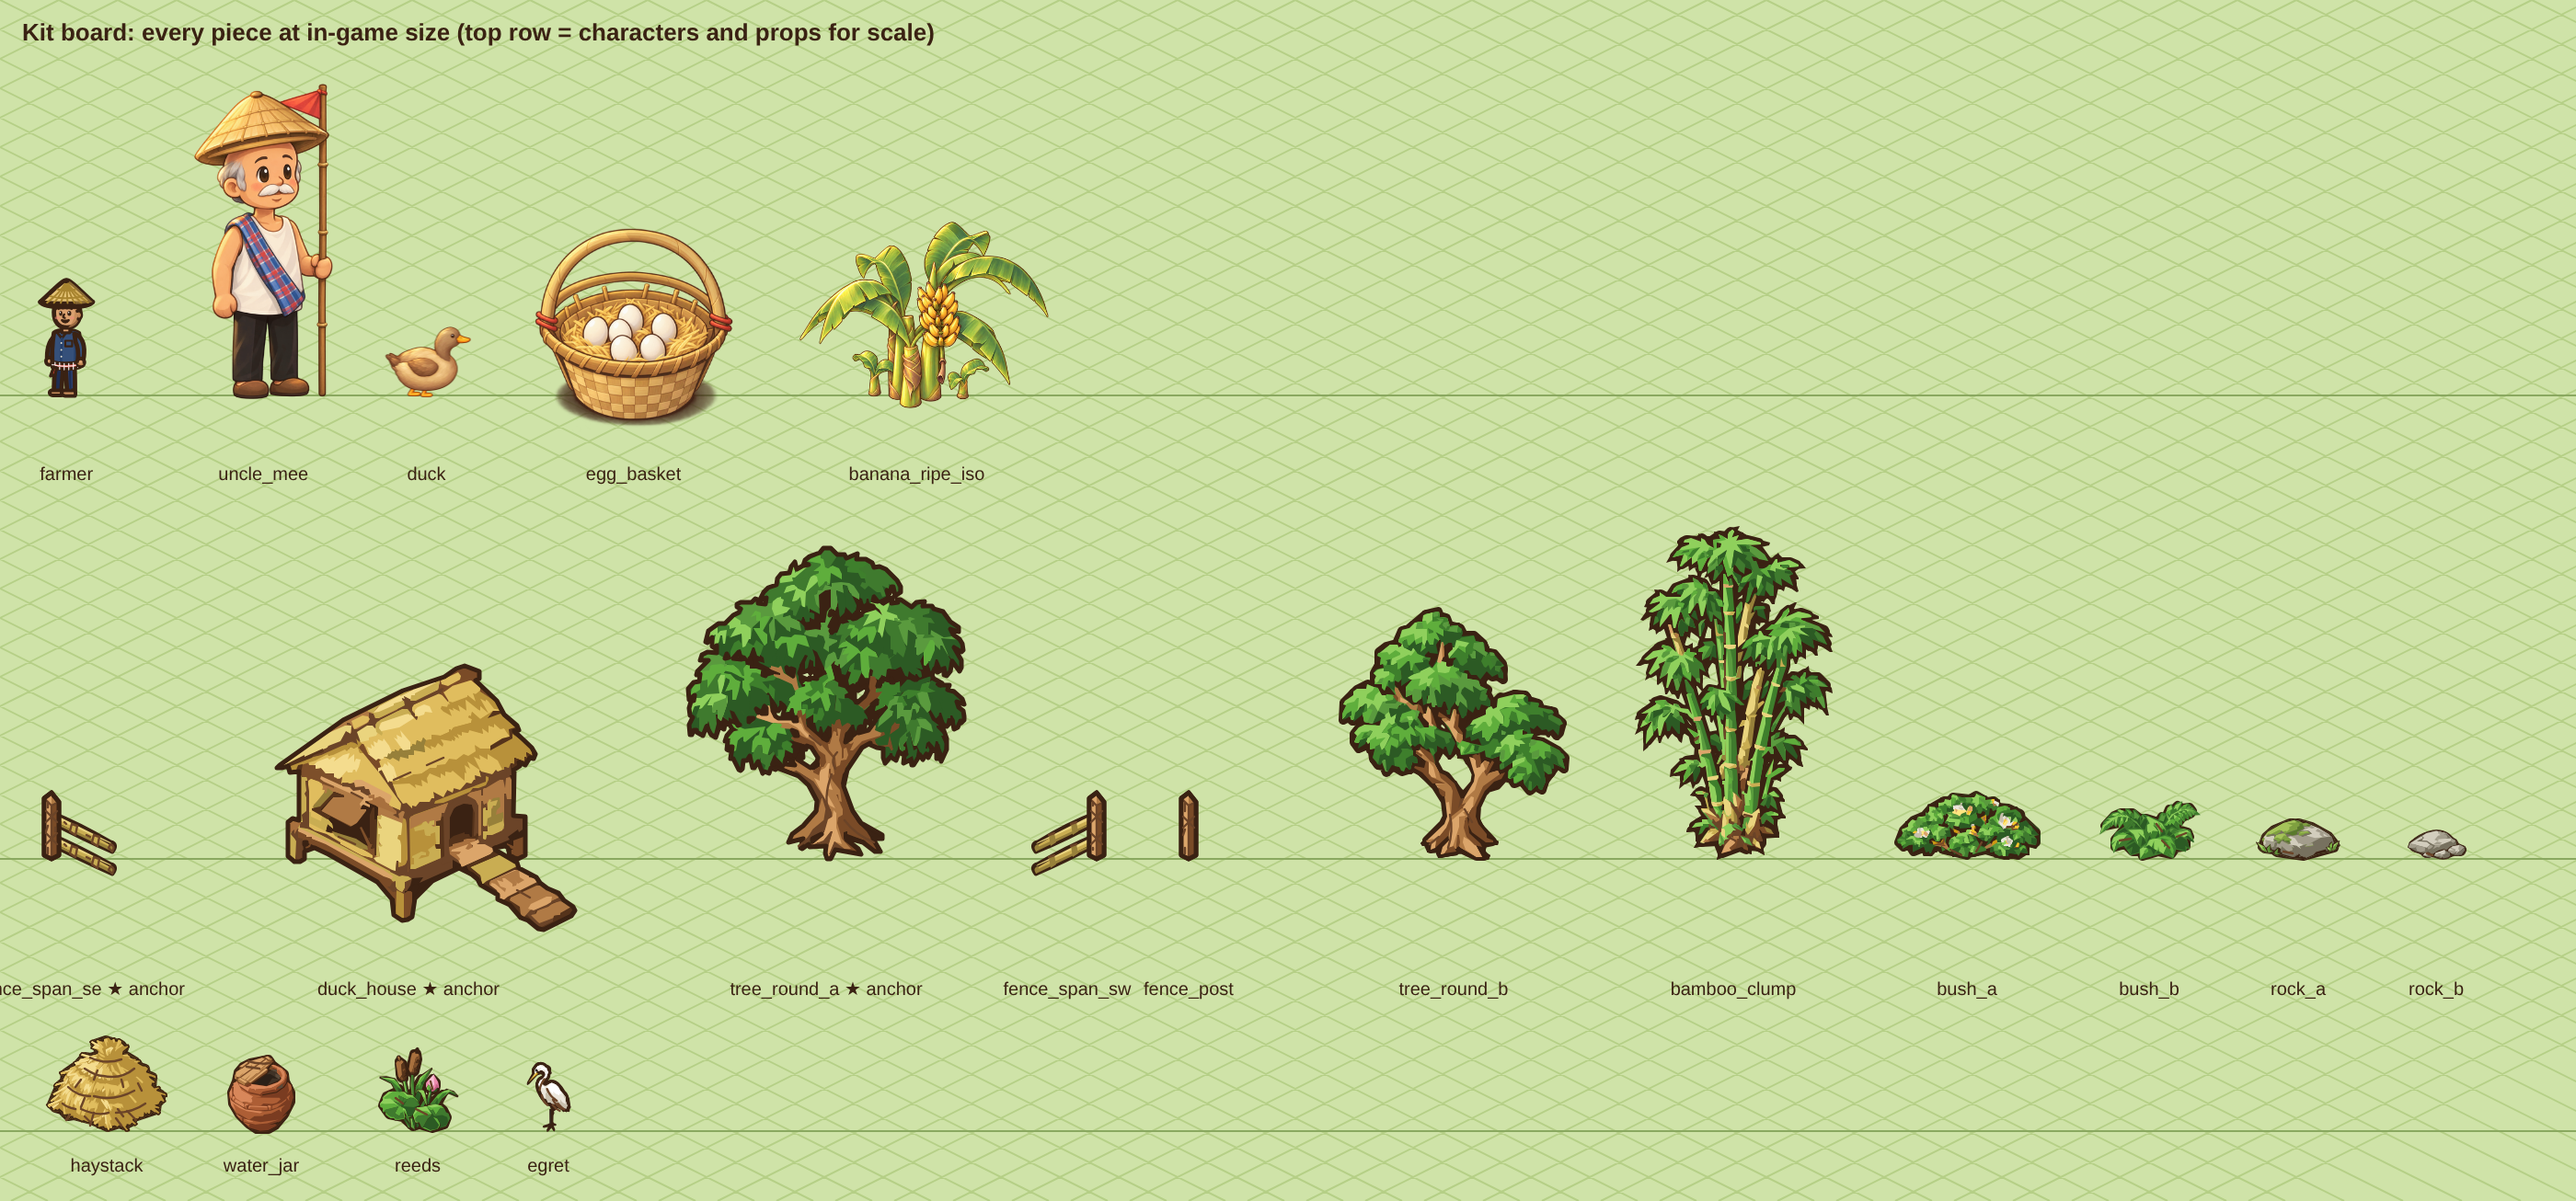
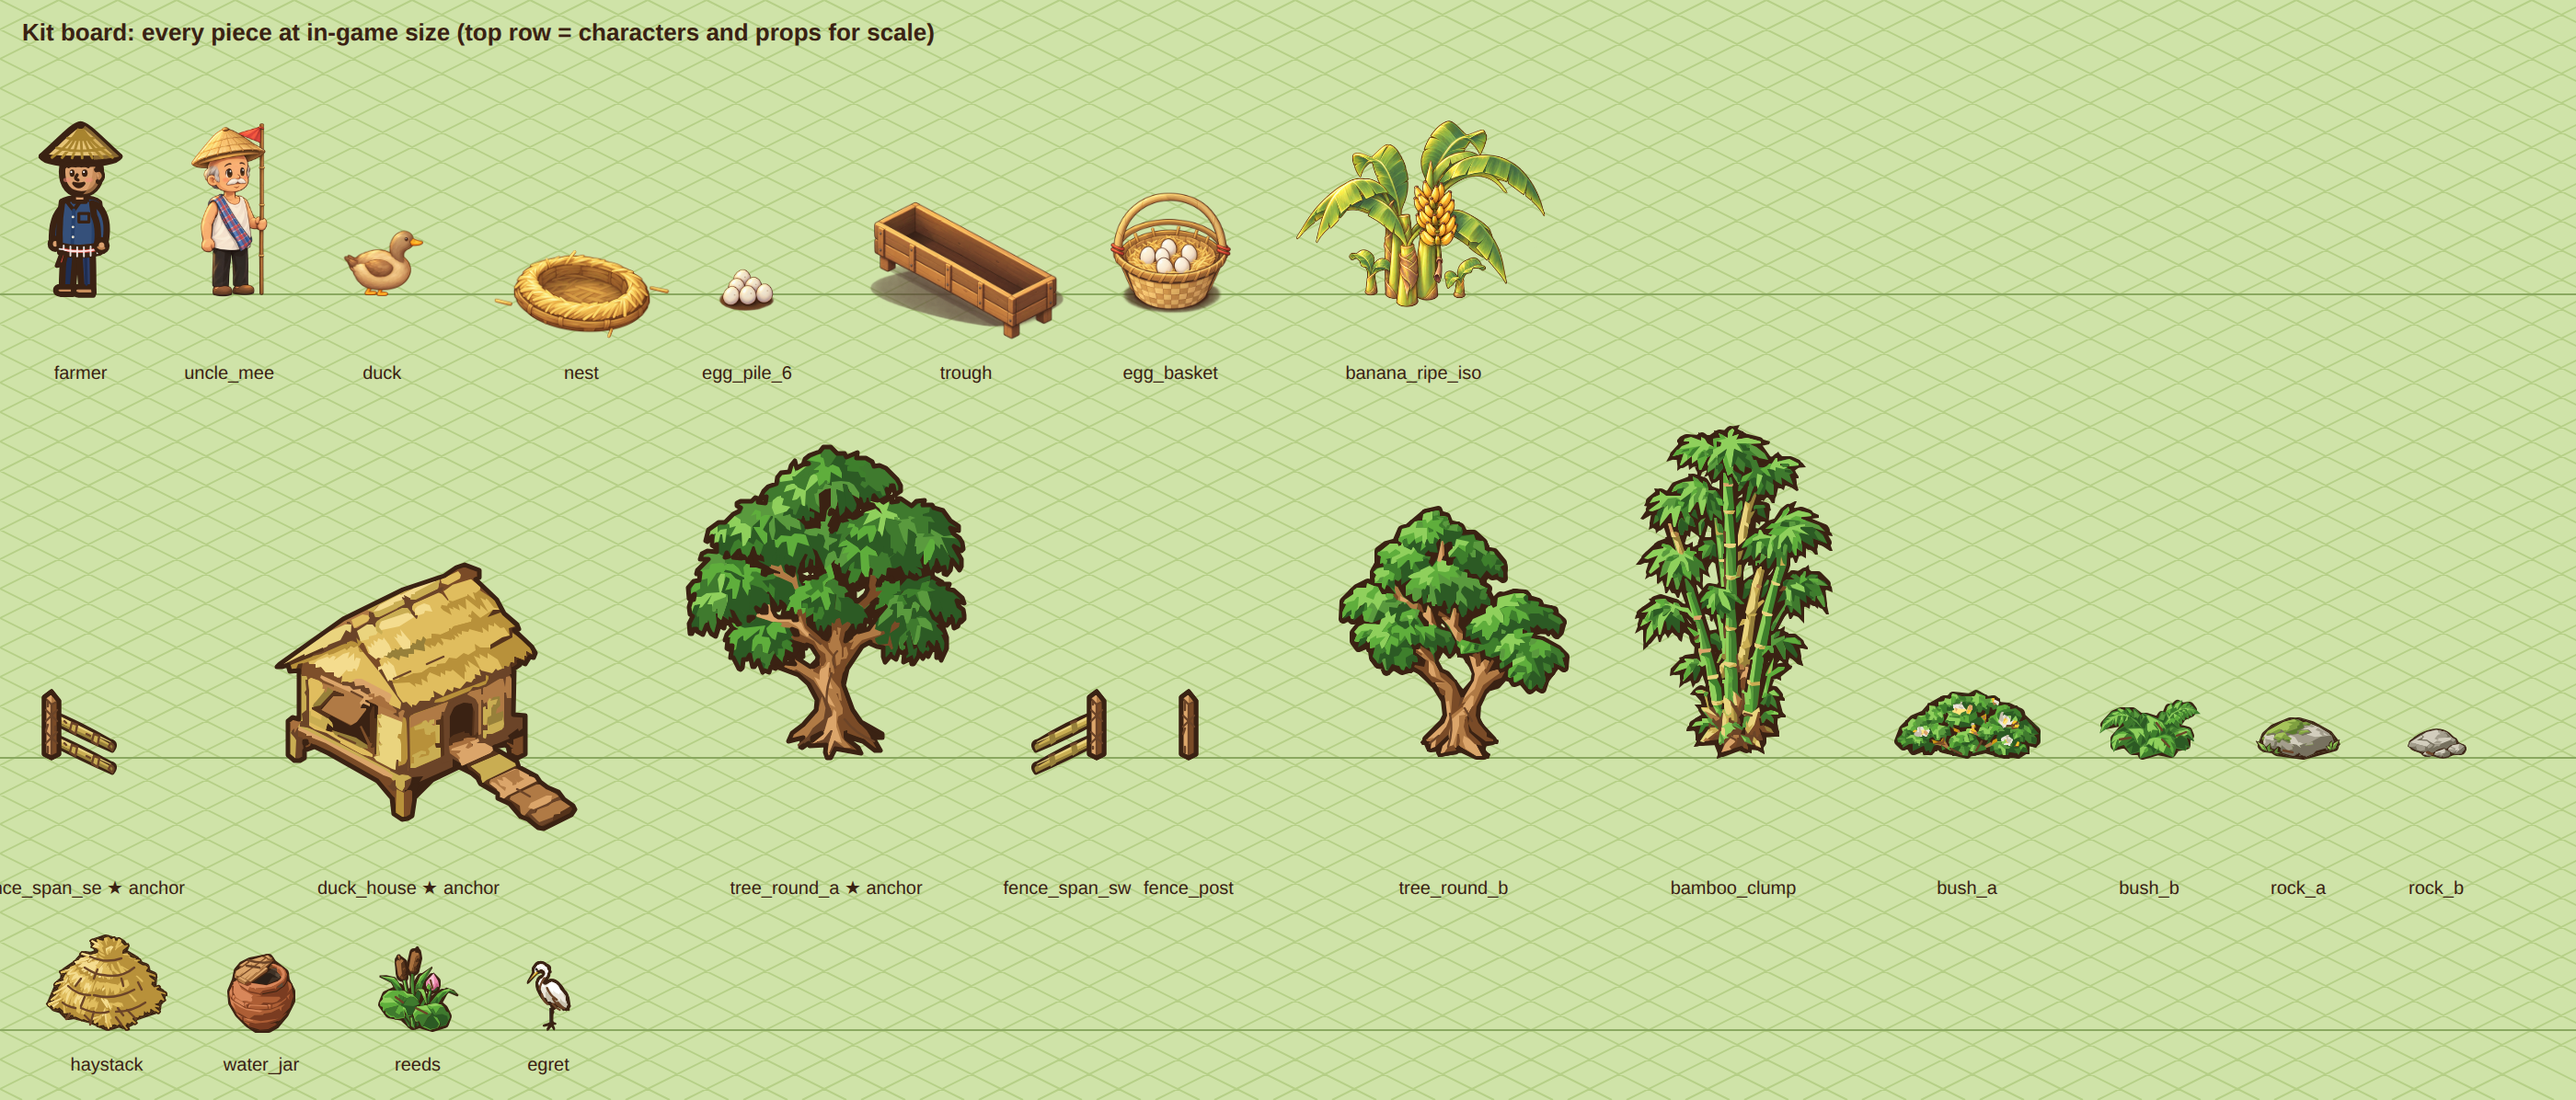
Duck pen kit review: approve 11 pieces, return ground and bamboo; one size chart for characters and props
- Approved: fence_span_sw, fence_post, tree_round_b, bush_a, bush_b,
  reeds, rock_a, rock_b, haystack, water_jar, egret. Together with the
  3 locked anchors, that makes 14 of 16 pieces approved.
- needs_changes with review notes: ground.pen (too speckled, plain
  floor) and bamboo_clump (palm/maple-shaped leaves).
- A finished flat-v3 file now takes precedence over an earlier painted
  PNG.
- SIZE_CHART / gameScale (js/art/assets.js):
  - farmer and Uncle Mee 96 px tall, duck 38 px, egg basket 56 px;
  - nest 100 px wide (egg piles share its scale), trough 110 px wide.
  Applied on the farm and in the pen, and recorded in
  paint_style.size_chart and the style contract. The kit board shows
  the characters and props at chart size. Uncle Mee's bubble moves down.
- The pen props (duck, Uncle Mee, nest, trough, basket, 10 egg piles,
  5 bananas) are queued for a style-v3 restyle (restyle_v3 blocks).

Claude-Session: https://claude.ai/code/session_01SuEzVnLzSy81bsDqDqTwQG

Changed region(s): [[0.0, 0.0, 1.0, 1.0]]

diff --git a/js/ui/render.js b/js/ui/render.js
@@ -81,14 +81,15 @@ function renderPen() {
   let s = '', labels = '';
   const items = [];                                   // [ground y, svg]: props and ducks, drawn back to front
   // nest with eggs
-  const nestArt = Assets.has('prop.nest') ? Assets.image('prop.nest', ...NEST) : `<g transform="translate(${NEST[0] - 300} ${NEST[1] - 312})">${ell(300, 312, 62, 20, '#d9b25a', 0, 2.6)}${line('M246 306l14 6M262 318l16 -4M290 322l14 -6M318 320l12 4M338 312l12 -6M252 316l-6 4M350 316l6 4', '#a8842f', 1.6)}</g>`;
+  const nk = gameScale('prop.nest');                  // the size chart scales the nest and its egg piles together
+  const nestArt = Assets.has('prop.nest') ? scaled(...NEST, nk, Assets.image('prop.nest', ...NEST)) : `<g transform="translate(${NEST[0] - 300} ${NEST[1] - 312})">${ell(300, 312, 62, 20, '#d9b25a', 0, 2.6)}${line('M246 306l14 6M262 318l16 -4M290 322l14 -6M318 320l12 4M338 312l12 -6M252 316l-6 4M350 316l6 4', '#a8842f', 1.6)}</g>`;
   s += `<g data-act="egg" class="hot"><title>รังไข่ · Nest</title>${nestArt}`;
   if (Assets.has('prop.egg_pile_1')) {
     const [nx, ny] = NEST_PILE;
     NEST_BACK.slice(0, Math.min(2, Math.floor((S.eggs - 1) / 10))).forEach(([dx, dy]) => {
-      s += `<g style="filter:brightness(.62) saturate(.8)">${Assets.image('prop.egg_pile_10', nx + dx, ny + dy)}</g>`;
+      s += `<g style="filter:brightness(.62) saturate(.8)">${scaled(...NEST, nk, Assets.image('prop.egg_pile_10', nx + dx, ny + dy))}</g>`;
     });
-    if (S.eggs > 0) s += Assets.image(`prop.egg_pile_${Math.min(10, S.eggs)}`, nx, ny);
+    if (S.eggs > 0) s += scaled(...NEST, nk, Assets.image(`prop.egg_pile_${Math.min(10, S.eggs)}`, nx, ny));
   } else {
     const shown = Math.min(S.eggs, 12);
     for (let i = 0; i < shown; i++) {
@@ -107,12 +108,13 @@ function renderPen() {
   if (troughAsset) {
     // the iso trough asset is anchored at the ground under its centre; the feed is an iso surface inside its cavity
     const [tx, ty] = TROUGH.at, P = (x, y, z) => `${r(tx + (x - y) * .894)},${r(ty + (x + y) * .447 - z)}`;
-    s += Assets.image('prop.trough', tx, ty);
+    let t = Assets.image('prop.trough', tx, ty);
     if (fill > 0) {
       const z = 17 + 17 * fill, [a, b] = TROUGH.inner;
-      s += `<polygon points="${P(-a, -b, z)} ${P(a, -b, z)} ${P(a, b, z)} ${P(-a, b, z)}" fill="#e8c77a" stroke="#b8943e" stroke-width="1"/>` +
+      t += `<polygon points="${P(-a, -b, z)} ${P(a, -b, z)} ${P(a, b, z)} ${P(-a, b, z)}" fill="#e8c77a" stroke="#b8943e" stroke-width="1"/>` +
         line(Array.from({ length: S.trough * 5 }, (_, i) => { const u = -a + 6 + (i * 23) % (2 * a - 12), v = -b + 4 + (i * 7) % (2 * b - 8); return `M${P(u, v, z).replace(',', ' ')}h1.4`; }).join(''), '#8a5a22', 2);
     }
+    s += scaled(tx, ty, gameScale('prop.trough'), t);   // the size chart scales the trough and its feed together
   } else {
     s += `<rect x="370" y="452" width="150" height="40" rx="6" fill="#9a6a3c" ${SW} stroke-width="3"/><rect x="378" y="458" width="134" height="18" rx="3" fill="#5a3a22"/>`;
     if (fill > 0) s += `<rect x="378" y="${458 + 18 * (1 - fill)}" width="134" height="${18 * fill}" rx="3" fill="#e8c77a"/>` +
@@ -125,7 +127,7 @@ function renderPen() {
     `<text x="445" y="530" text-anchor="middle" font-family="Sarabun" font-size="10" fill="${O}">Trough — click to add feed (have ${S.inventory.feed})</text>`;
   // basket
   const hasEgg = S.hand && S.hand.type === 'egg';
-  const basketArt = Assets.has('prop.egg_basket') ? Assets.image('prop.egg_basket', 650, 478) : `<path d="M620 452Q650 420 680 452" fill="none" stroke="${O}" stroke-width="3"/>` +
+  const basketArt = Assets.has('prop.egg_basket') ? scaled(650, 478, gameScale('prop.egg_basket'), Assets.image('prop.egg_basket', 650, 478)) : `<path d="M620 452Q650 420 680 452" fill="none" stroke="${O}" stroke-width="3"/>` +
     `<path d="M612 452H688L680 494H620Z" fill="#d6ad62" ${SW} stroke-width="3"/>` + line('M616 466H684M618 480H682M634 452V494M650 452V494M666 452V494', '#9a7338', 1.4) +
     `<g transform="translate(640 448) scale(.6)">${eggIcon()}</g><g transform="translate(656 446) scale(.6)">${eggIcon()}</g>`;
   items.push([478, `<g data-act="basket" class="hot ${hasEgg ? 'glow' : ''}"><title>ตะกร้าขายไข่ · Egg basket</title>${basketArt}</g>`]);
@@ -154,7 +156,7 @@ const DUCK_SPOTS = [[600, 300, 11], [300, 365, 14], [665, 362, 10], [560, 408, 1
 function penDucks() {
   const t = performance.now() / 1000;
   return DUCK_SPOTS.slice(0, S.ducks).map(([x, y, dur], i) =>
-    [y, `<g transform="translate(${x} ${y})"><ellipse cx="0" cy="3" rx="16" ry="3.5" fill="rgba(0,0,0,.15)"/><g class="duck" style="animation-duration:${dur}s;animation-delay:${-((t + i * 3.1) % dur).toFixed(2)}s"><g class="waddle" style="animation-delay:${i * .13}s">${duckShape()}</g></g></g>`]);
+    [y, `<g transform="translate(${x} ${y})"><ellipse cx="0" cy="3" rx="16" ry="3.5" fill="rgba(0,0,0,.15)"/><g class="duck" style="animation-duration:${dur}s;animation-delay:${-((t + i * 3.1) % dur).toFixed(2)}s"><g class="waddle" style="animation-delay:${i * .13}s"><g transform="scale(${gameScale('animal.duck').toFixed(3)})">${duckShape()}</g></g></g></g>`]);
 }
 
 function renderAnim() { animEl.innerHTML = ''; }   // animated layers now live in their scenes' depth sorts

diff --git a/js/art/assets.js b/js/art/assets.js
@@ -57,6 +57,23 @@ const ASSET_SPECS = (() => {
   return list;
 })();
 
+// Size chart for the isometric scenes (docs/style-contract.md): the in-game size of each character, animal and prop,
+// so they share one scale with the kit pieces (drawn at game size). An asset's canvas is scaled by gameScale(id);
+// `h` is the height above the ground point, `w` the width (for flat props like the nest).
+const SIZE_CHART = {
+  'character.farmer': { h: 96 }, 'character.uncle_mee': { h: 96 },    // adults: a little under the duck house (105)
+  'animal.duck': { h: 38 },
+  'prop.nest': { w: 100 }, 'prop.egg_pile': { same: 'prop.nest' },      // eggs sit in the nest, so they share its scale
+  'prop.egg_basket': { h: 56 }, 'prop.trough': { w: 110 },
+};
+function gameScale(id) {
+  const key = /^prop\.egg_pile_\d+$/.test(id) ? 'prop.egg_pile' : id, c = SIZE_CHART[key];
+  if (!c) return 1;
+  if (c.same) return gameScale(c.same);
+  const sp = ASSET_SPECS[id];
+  return c.h ? c.h / sp.ay : c.w / sp.w;
+}
+
 // Where the painted-art pass saves an asset (manifest `paint.output`): PNG sprites, WebP backgrounds.
 const paintedPath = output => output.replace(/^assets\//, 'assets/painted/').replace(/\.svg$/, output.startsWith('assets/backgrounds/') ? '.webp' : '.png');
 
@@ -92,7 +109,9 @@ const Assets = {
         if (!ASSET_SPECS[a.id]) continue;
         // a finished painted version wins; otherwise the SVG, or its pre-rendered raster (tools/rasterize-backgrounds.mjs),
         // which is cheaper to draw on phones than a big SVG
-        if (a.paint && a.paint.file && this.USE_STATUSES.includes(a.paint.status)) this.found[a.id] = a.paint.file;
+        // a finished style-v3 file wins over an earlier painted version
+        if (a.style === 'flat-v3' && a.file && ['done', 'approved'].includes(a.status)) this.found[a.id] = a.file;
+        else if (a.paint && a.paint.file && this.USE_STATUSES.includes(a.paint.status)) this.found[a.id] = a.paint.file;
         else if (a.file && this.USE_STATUSES.includes(a.status)) this.found[a.id] = a.raster || a.file;
       }
     } else {

diff --git a/js/ui/shop.js b/js/ui/shop.js
@@ -11,7 +11,7 @@ function renderPanel() {
     : `<button class="shop-open glow" data-act="shop-open" data-seller="daeng">🛒 ซื้อของป้าแดง<small>Seeds & supplies</small></button>`}
     ${BACK_TO_MAP}`;
   } else if (S.scene === 'pen') {
-    panel.innerHTML = `<div class="bubble" style="left:8px;top:6px;width:176px">เป็ดกินอิ่ม ไข่ก็ดกนะหลาน<small>Well-fed ducks lay every day</small></div>
+    panel.innerHTML = `<div class="bubble" style="left:8px;top:92px;width:176px">เป็ดกินอิ่ม ไข่ก็ดกนะหลาน<small>Well-fed ducks lay every day</small></div>
     ${ui.shopOpen ? shopBoard(SELLERS[ui.shopOpen])
     : `<button class="shop-open mee glow" data-act="shop-open" data-seller="mee">🦆 ซื้อสัตว์ลุงมี<small>Ducks & feed</small></button>`}
     ${BACK_TO_MAP}`;

diff --git a/js/art/iso.js b/js/art/iso.js
@@ -113,7 +113,7 @@ const FARM_ZONES = {
 // 20 px per metre. The farmer, dragon jar and buffalo are the farm's characters and get a stylised game size
 // (about 2x life: farmer ~67 px, jar ~55 px, spirit house ~110 px); the cart stays near life size. Crops and the text
 // signs keep their gameplay sizes.
-const FARM_SCALE = { shrine: .7, buffalo: .75, farmer: .62, jar: .6, cart: .6 };
+const FARM_SCALE = { shrine: .7, buffalo: .75, jar: .6, cart: .6, get farmer() { return gameScale('character.farmer'); } };   // farmer: the size chart (js/art/assets.js)
 // The Thai house sprite's anchor (ground at its back corner) and its depth for sorting (grid gx + gy of its middle).
 const FARM_HOUSE = { at: [2.4, -4.8], depth: 1.0 };
 // The Phra Phum spirit house stands here (grid point), inside FARM_ZONES.shrine.

diff --git a/js/art/characters.js b/js/art/characters.js
@@ -6,7 +6,7 @@ function charAsset(id, x, y, k = 1) {
   return `<g transform="translate(${x} ${y}) scale(${k})">${Assets.image(id)}</g>`;
 }
 // Scale of the market and pen characters' iso assets (drawn smaller than the code art's canvas).
-const CHAR_SCALE = { auntie: 2.5, uncle: 1.75 };
+const CHAR_SCALE = { auntie: 2.5, uncle: gameScale('character.uncle_mee') };   // Auntie Daeng: the market's front-view interior, outside the iso size chart
 
 function farmer(x, y, tired) {
   const id = tired ? 'character.farmer_tired' : 'character.farmer';

diff --git a/docs/style-contract.md b/docs/style-contract.md
@@ -50,7 +50,7 @@ On approval, `node tools/lock-style-anchors.mjs`:
 | **Line weights** | **Outer silhouette:** `#3a2213`, about **2.5 canvas px visible**, closed around the whole piece, round joins. Two ways to draw it, both used by the anchors:<br>• a 5 px stroke drawn *beneath* the fills, which leaves 2.5 px showing outside (traced pieces: house, tree);<br>• a 2.5 px stroke drawn over the fills (hand-drawn pieces: fence).<br>**Inner contours:** `#6b4428`, 1.2 canvas px, chosen on purpose for planks, weave, thatch rows, branch splits and rope. The visible weight must match the anchors on the kit board. |
 | **Shape complexity** | Match the **rich, sculpted** look of the approved anchors, *not* a clean flat cartoon. The owner rejected simplified redraws.<br>• **Natural silhouettes:** irregular, organic edges. No blobs and no geometric primitives.<br>• **Dense material detail traced from a sculpted reference and kept**: overlapping leaf sprays with visible gaps between branches; irregular overlapping thatch; woven panels; timber texture.<br>• **Remove only noise that describes nothing:** stray specks and sub-pixel slivers.<br>• **Measured on the anchors** (`node tools/validate-kit.mjs`): interior detail density about 0.13 on the house and the tree (the small fence reads higher). New pieces must land between ×0.45 and ×2.2 of the anchors. |
 | **Material detail** | As on the anchors:<br>• **Wood:** restrained grain, cut ends, cleats.<br>• **Bamboo:** node collars, curved rails, light–base–shadow roll.<br>• **Thatch/straw:** irregular overlapping rows and loose strands.<br>• **Woven walls:** visible weave texture in the bamboo tones.<br>• **Leaves:** overlapping sprays in leaf and leaf_dark tones, lit tops, branch gaps.<br>• **Trunks:** twisted, with flared roots.<br>• **Stone:** facets plus moss.<br>• **Water edges:** a reed base at the water line. |
-| **Scale (relative to the characters)** | Canvas units are game pixels. The farmer is about 67 px tall in the game (the character size chart is still to be unified: Uncle Mee is currently drawn about 2.7× larger). Reference heights: fence post 36, haystack 52, duck house 105, banana 120–150, round tree 140–170, bamboo 185, Thai house about 250. Each entry's `height_px` is binding (±20%, checked). |
+| **Scale (relative to the characters)** | Canvas units are game pixels. **Size chart** (`paint_style.size_chart`, applied in the game by `gameScale`): adults (farmer, Uncle Mee) 96 px tall, duck 38, egg basket 56, nest 100 wide (egg piles share it), trough 110 wide. Reference heights: fence post 36, haystack 52, duck house 105, banana 120–150, round tree 140–170, bamboo 185, Thai house about 250. Each entry's `height_px` is binding (±20%, checked). |
 | **Canvas** | The entry's `canvas` (SVG `viewBox`). The whole piece fits inside with a few px to spare; nothing is clipped. |
 | **Anchor** | The ground point under the piece sits exactly on the guide's anchor cross. The validator checks that the piece actually stands there. |
 | **Footprint** | The entry's `footprint` diamond, in tiles (down-right × down-left), is where the piece touches the ground. Buildings fill it (at least 45% coverage, checked); fence spans run along it. |
